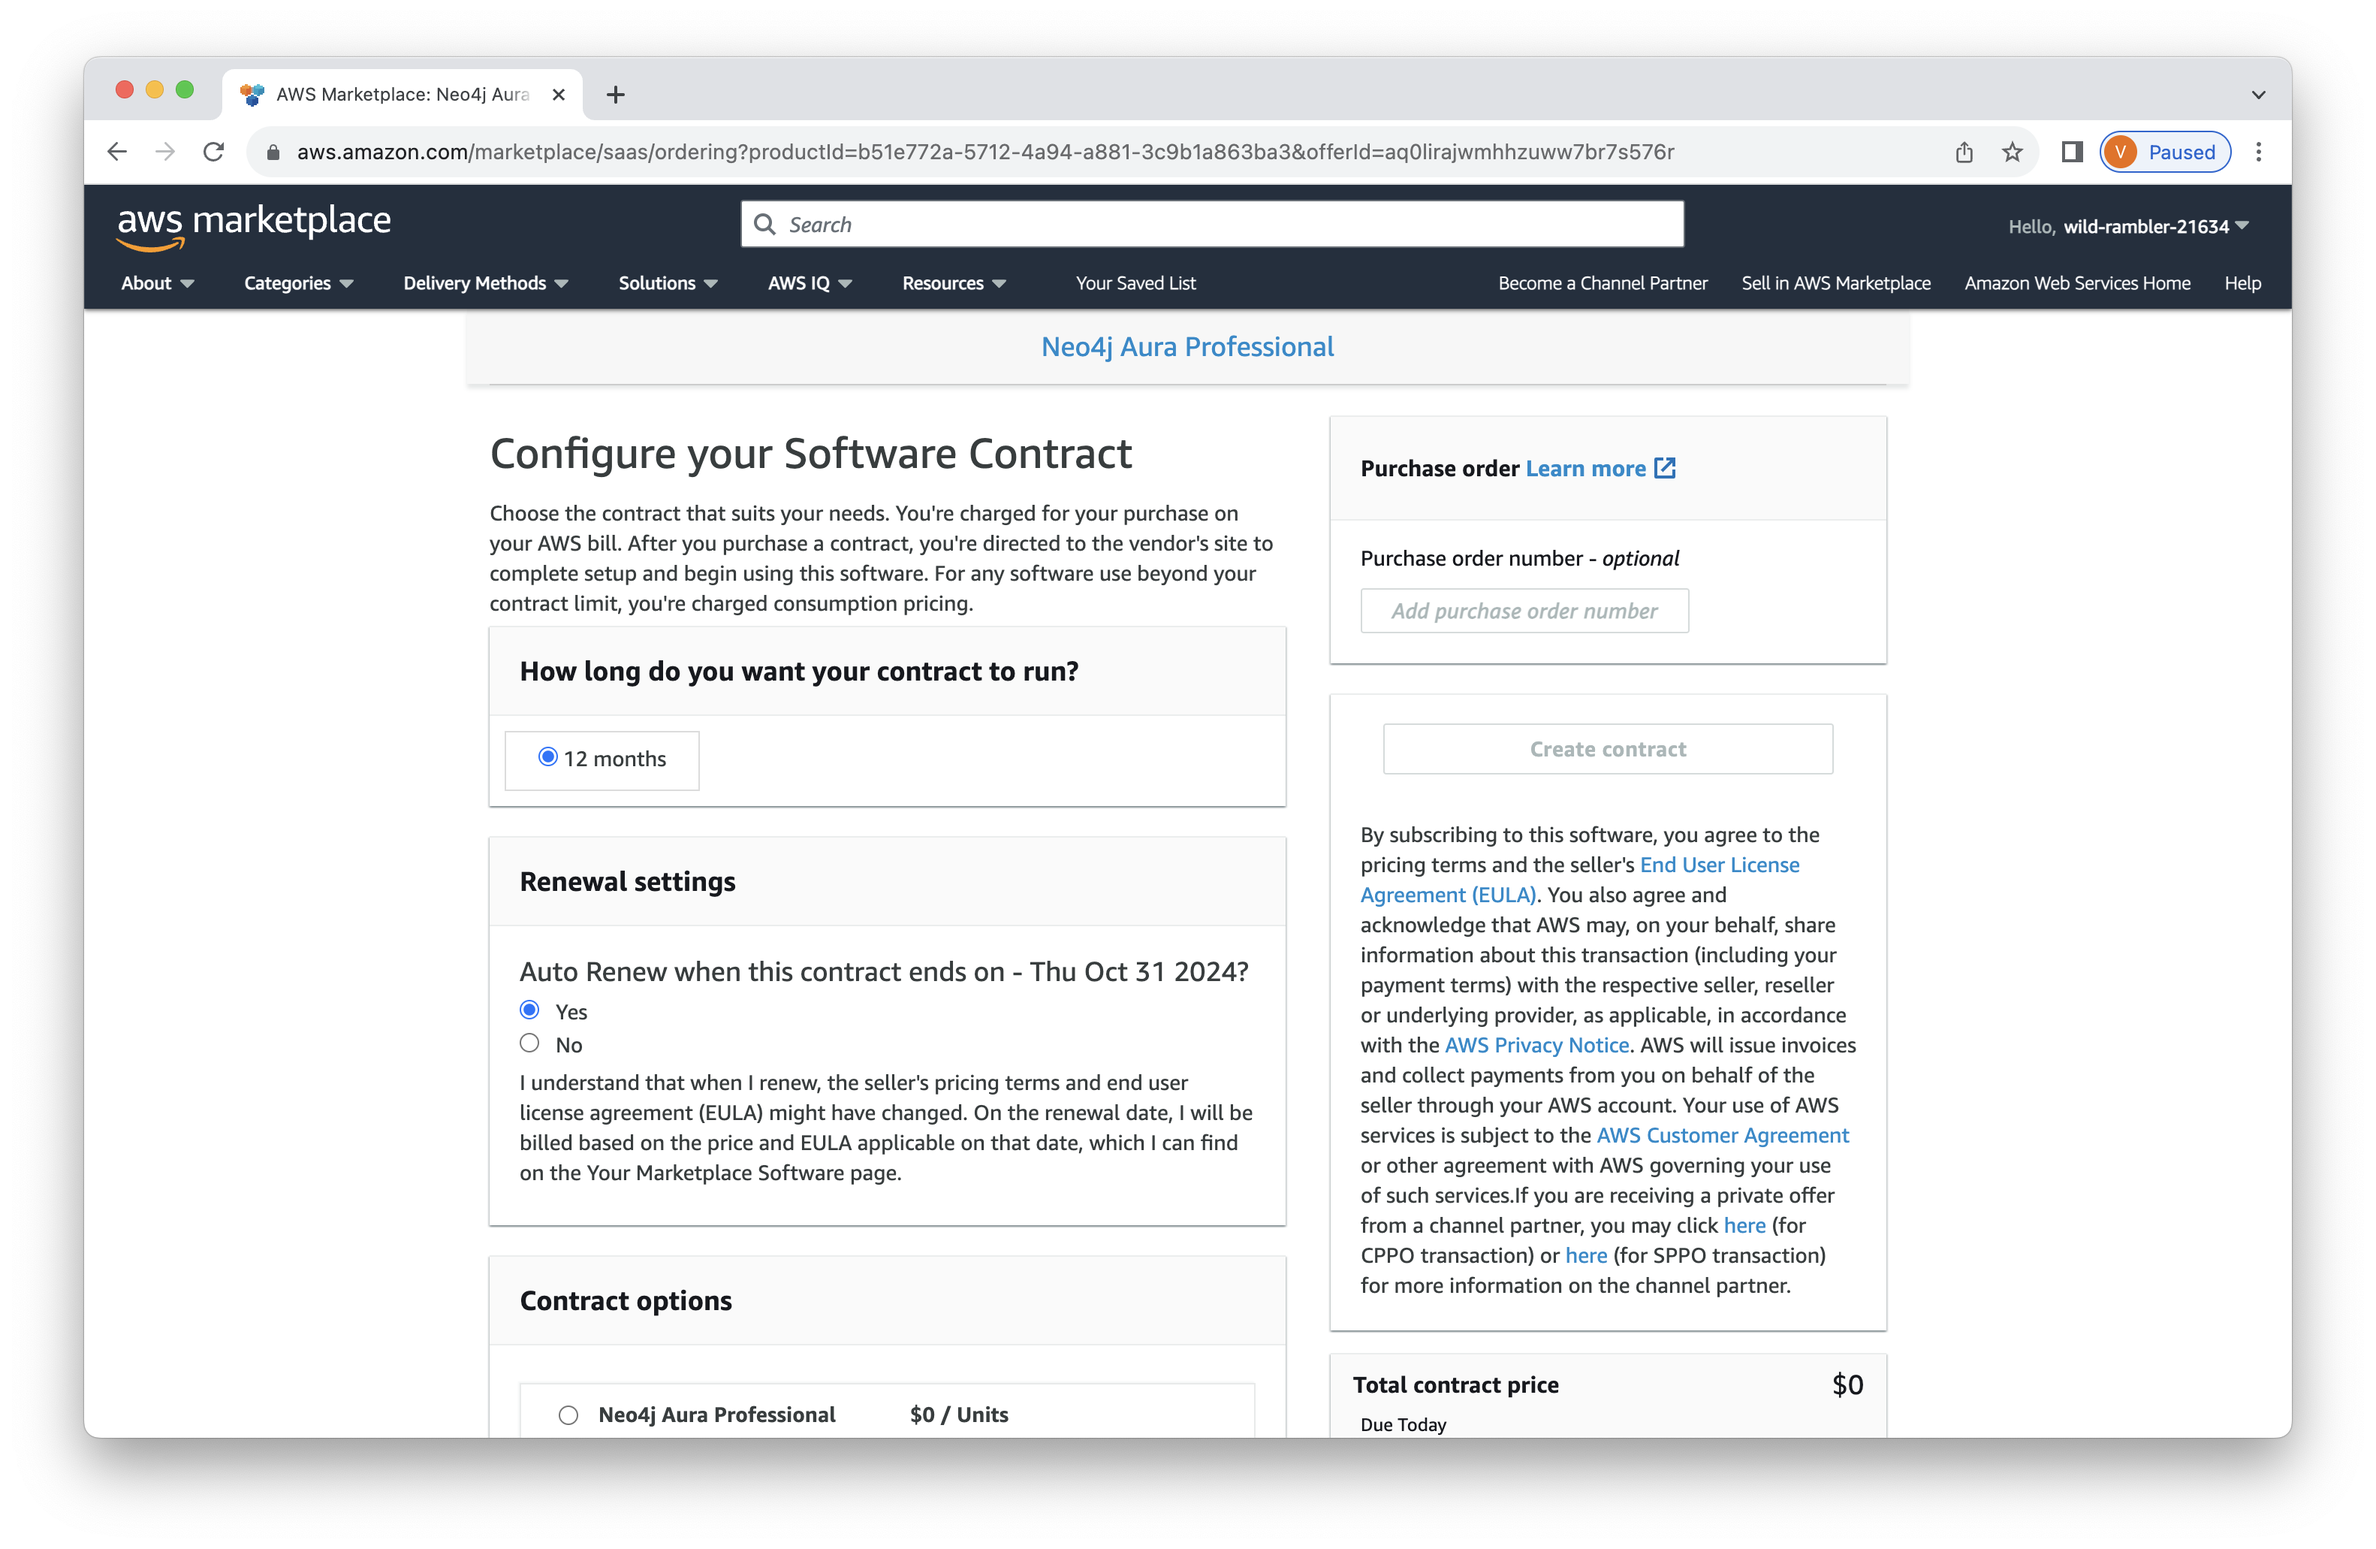
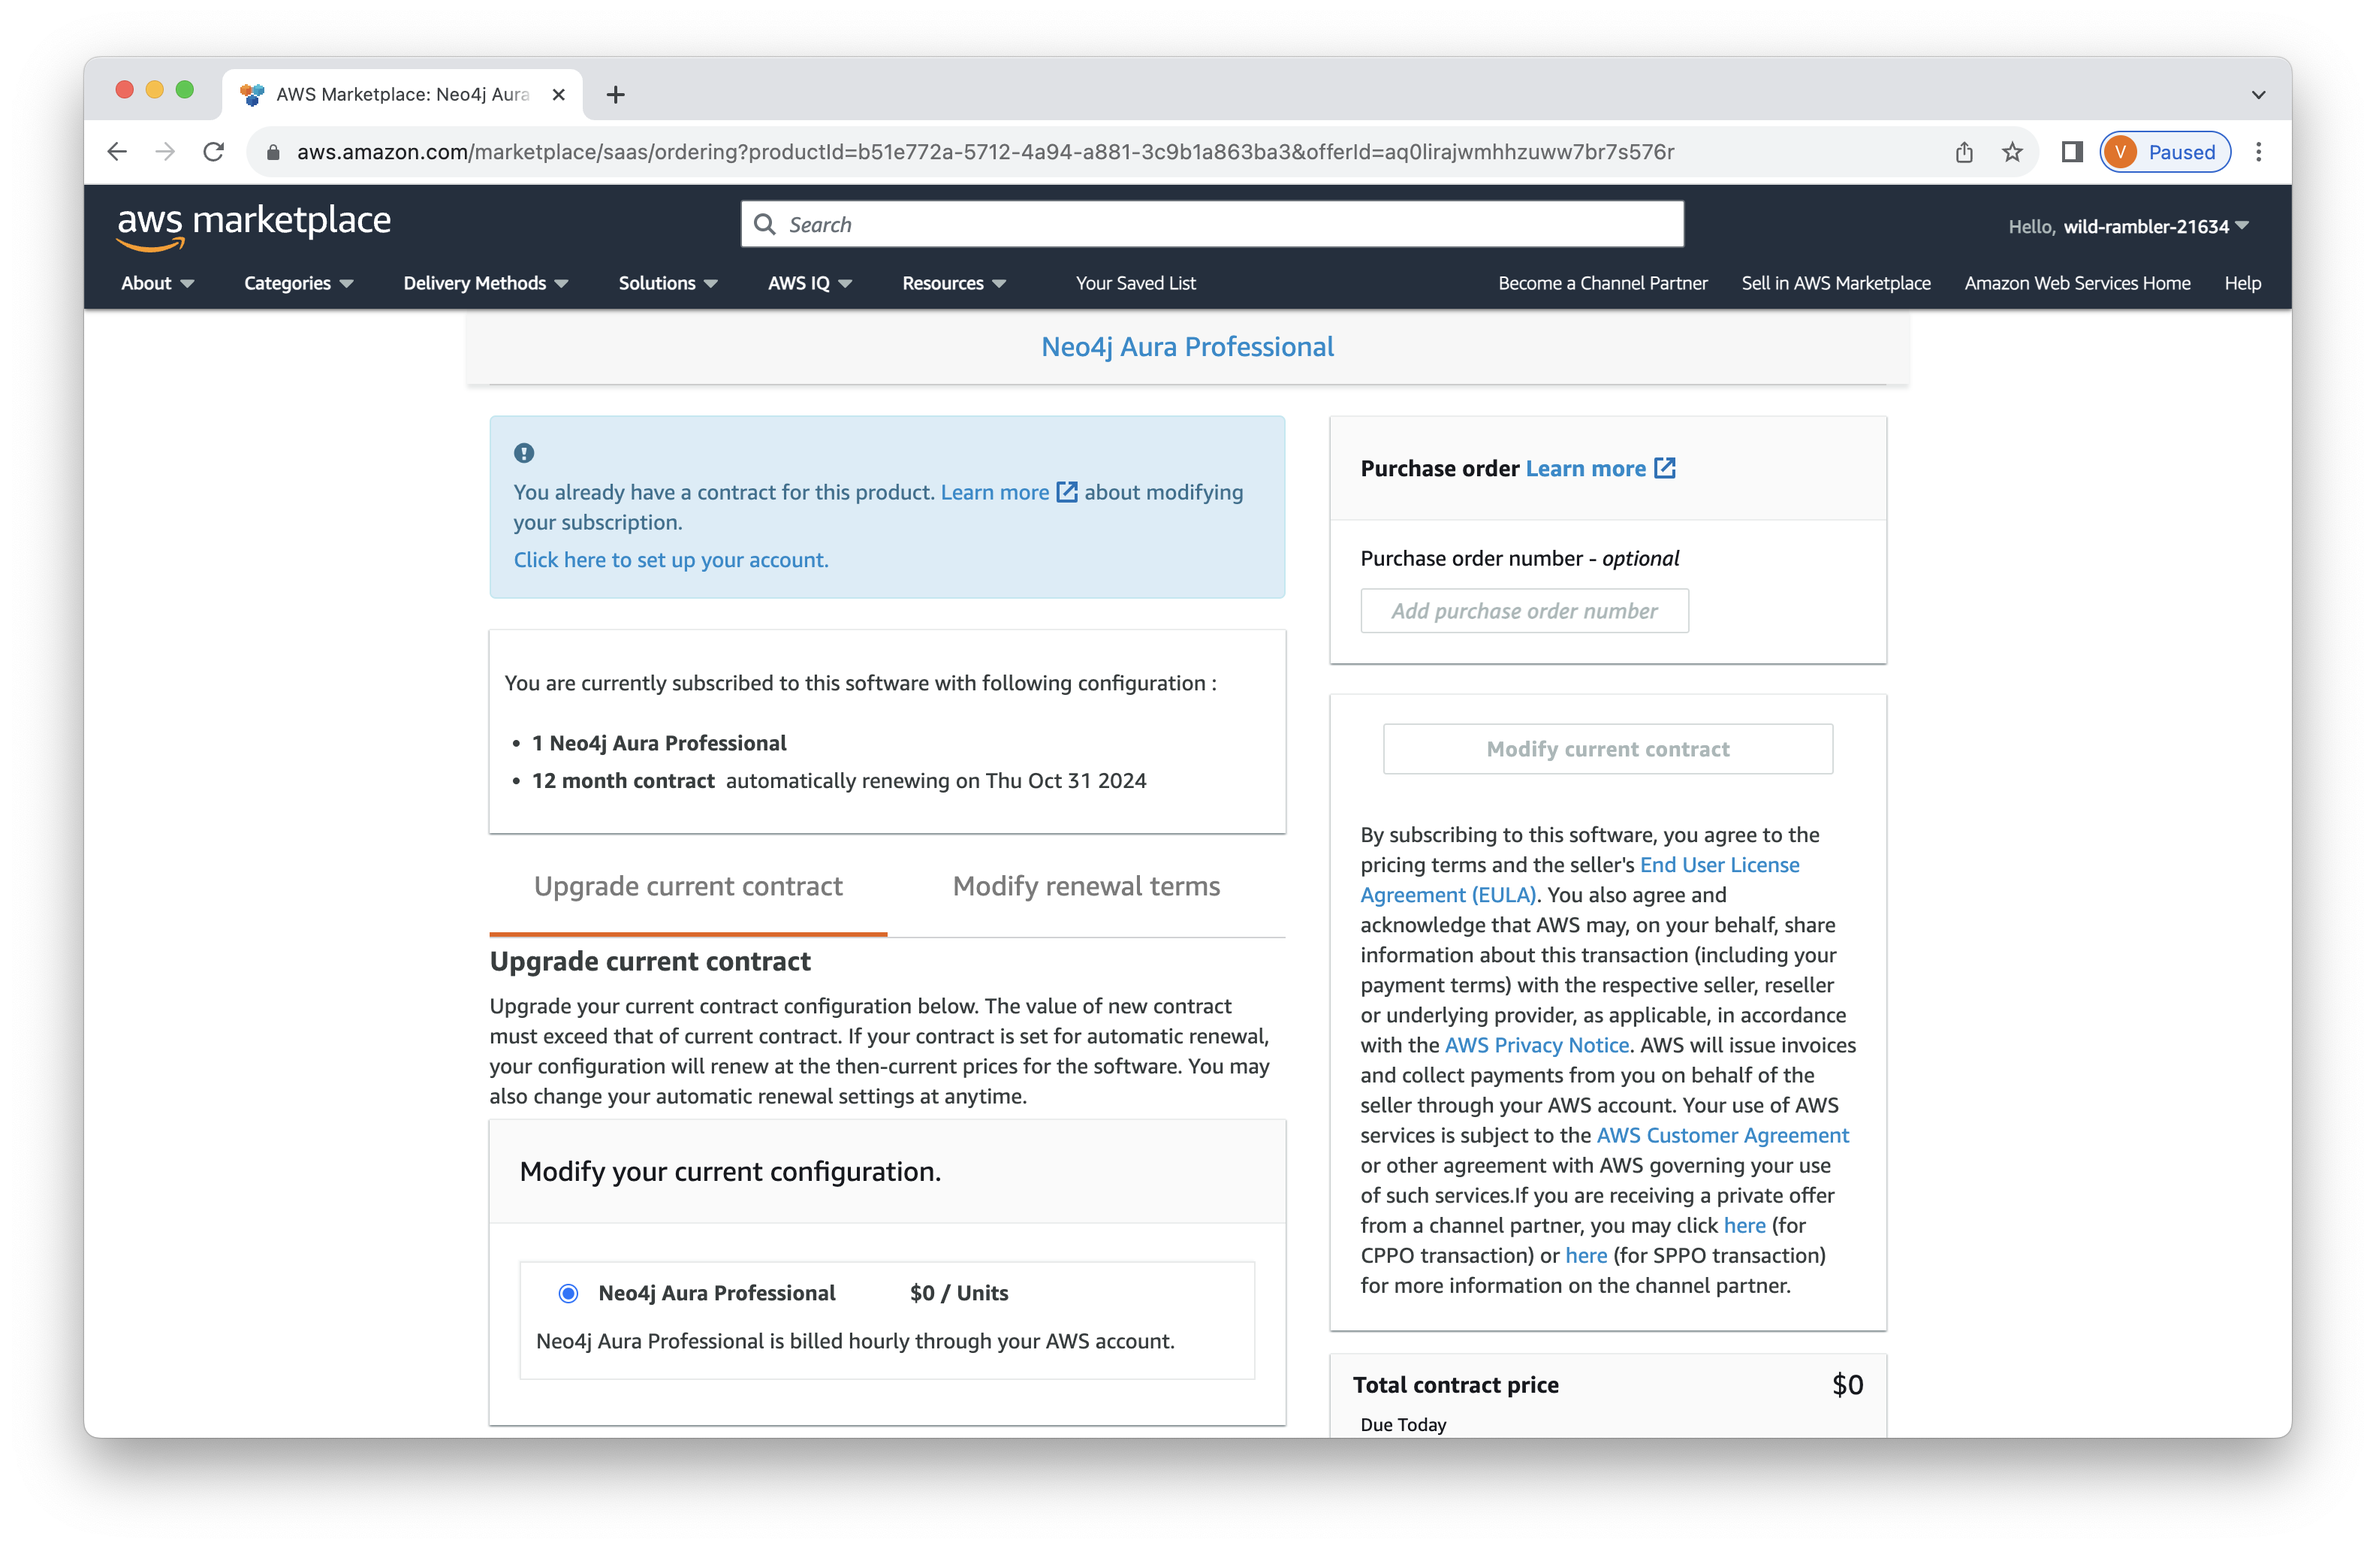
update

diff --git a/Lab 1 - Deploy Neo4j/README.md b/Lab 1 - Deploy Neo4j/README.md
@@ -18,67 +18,75 @@ Scroll down and select "Neo4j Aura Professional."
 
 ![](images/01.png)
 
-XXXX - To do
+Note that this account has already been subscribed to Neo4j Aura Professional.  Click on "Click here to set up your account."
 
 ![](images/02.png)
 
-Still in the left menu, scroll all the way to the bottom.  You'll see listings for a number of partner products.  These are products from leading ISVs that Google has chosen to integrate tightly into the Cloud Consonle.  Amoung those, you'll see a listing for Neo4j.  Click on that.
+This takes us to the Neo4j Aura console.  Billing information has been passed over from the AWS account we just came from.  Under "Don't have an account" click "Sign up."
 
 ![](images/03.png)
 
-That takes you to a description of Neo4j Aura Professional in the Google Cloud Marketplace.  The parent account, owned by OneBlink.AI has already subscribed to this listing.  However, we still need to enable the API.
-
-Click on "Enable."
+You'll need to enter an email address.  Alternatively you can authenticate with Google.  In my case, I'm entering my personal address.
 
 ![](images/04.png)
 
-When complete you'll see this page.  Click on "Manage Via Neo4j, Inc." at the top of the page.
+Now enter a password.  Be sure to remember it.  Click "Continue."
 
 ![](images/05.png)
 
-Confirm that you're ok with getting redirected to the management console.
+You'll now be asked to verify your email address.  Open your email client and view the verification email.
 
 ![](images/06.png)
 
-You'll be asked which Google credentials you want to use.  Be sure to select the same credentials you've been using so far.
+Click "Verify me e-mail address."
 
 ![](images/07.png)
 
-You'll need to agree to some terms and cookies.  Click "Got it" and "I agree."
+You should see a message that your address was verified.  Go back to the window with the Neo4j Aura console.
 
 ![](images/08.png)
 
-And, now you're at the Aura console.  At this point, we've authorized the API and logged into the console for Aura Professional.  
-
-Click "Got it!" to dismiss the cookie dialog.
+Click your name in the upper right.  In that dialog click "Log out."
 
 ![](images/09.png)
 
-We can now create our first database.  We want to create an AuraDS instance.  That way we'll have access to Graph Data Science and Bloom, the Neo4j business intelligence tool.
-
-Click on "Instances" under AuraDS.
-
-Important -- Be sure to select AuraDS.
+Now, back a the login screen, click "Log in."
 
 ![](images/10.png)
 
-Now click on "New Instance" to create a new AuraDS instance.
+Enter your password and click "Log in."
 
 ![](images/11.png)
 
-We're presented with various options for that database.  For number of nodes, enter "500,000" and for number of relationships, enter "1,000,000".
+Click "I agree" to agree to terms.
 
 ![](images/12.png)
 
-Then scroll down.  In later labs, We're going to be making a node embedding, so select that.  The node embedding will allow us to represent our graph as features that Google Vertex AI can consume in a tablular format.
-
-Scroll to the bottom and click "Calculate estimate."
+In the menu on the left click on "Instances" under "Aura DS."  Important -- be absolutely certain to select AuraDS.  It has components like Graph Data Science that AuraDB does not.  We're going to need those later.
 
 ![](images/13.png)
 
-Review the estimate, enter "sec-edgar" for instance name, and click "Create"
+Click "New instance."
 
 ![](images/14.png)
+
+Select the AWS logo.  For "Number of nodes" enter 500,000.  For number of relationships, enter "1,000,000."  This will ensure our AuraDS deployment is of sufficient size for our workload.  
+
+For algorithms select "Node Embedding."  This item doesn't change the config, rather is a survey of what algorithms users are making use of.
+
+With all that done, click "Calculate Estimate."
+
+![](images/15.png)
+
+For instance name, let's put "sec-edgar."  Click "Next."
+
+![](images/16.png)
+
+Hmmmm.  Payment method didn't get passed through for some reason.
+
+![](images/17.png)
+
+To do.....
 
 You'll be presented with the credentials for your database.  Click "Download and continue."  That will download the credentials to a text file on your local machine.  Be sure to save that file as you won't be able to get those credentials later.
 
